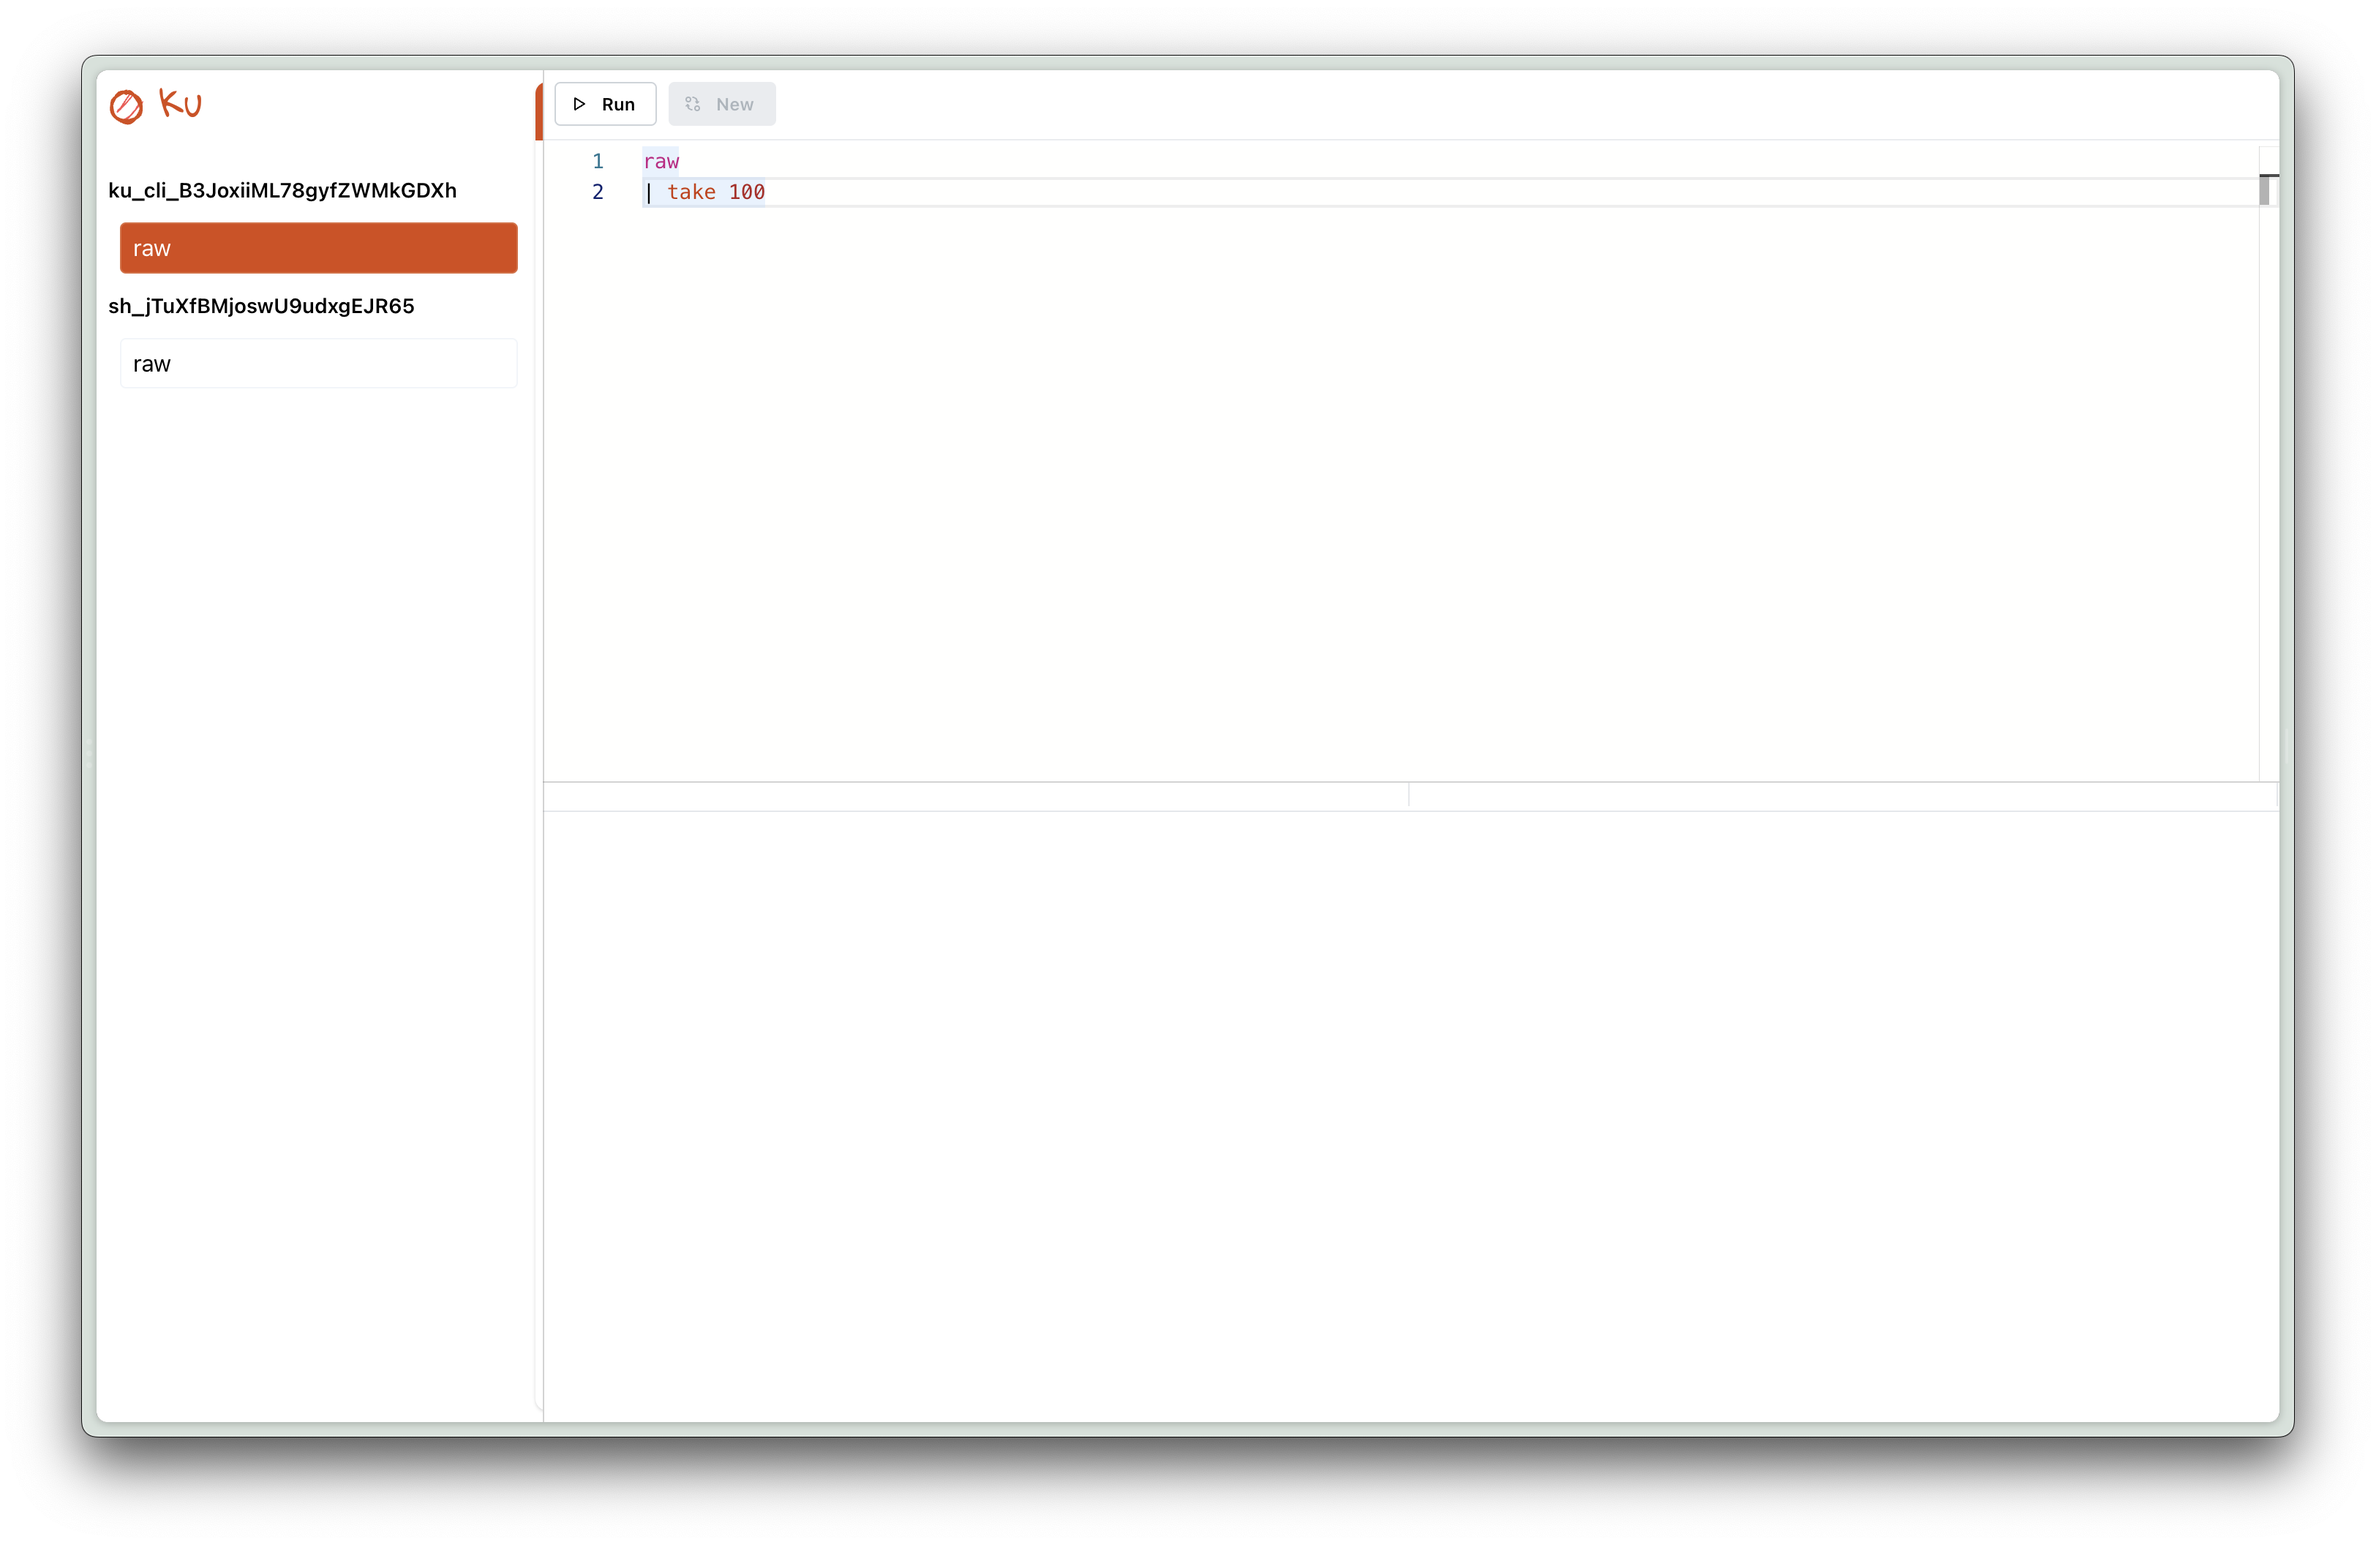
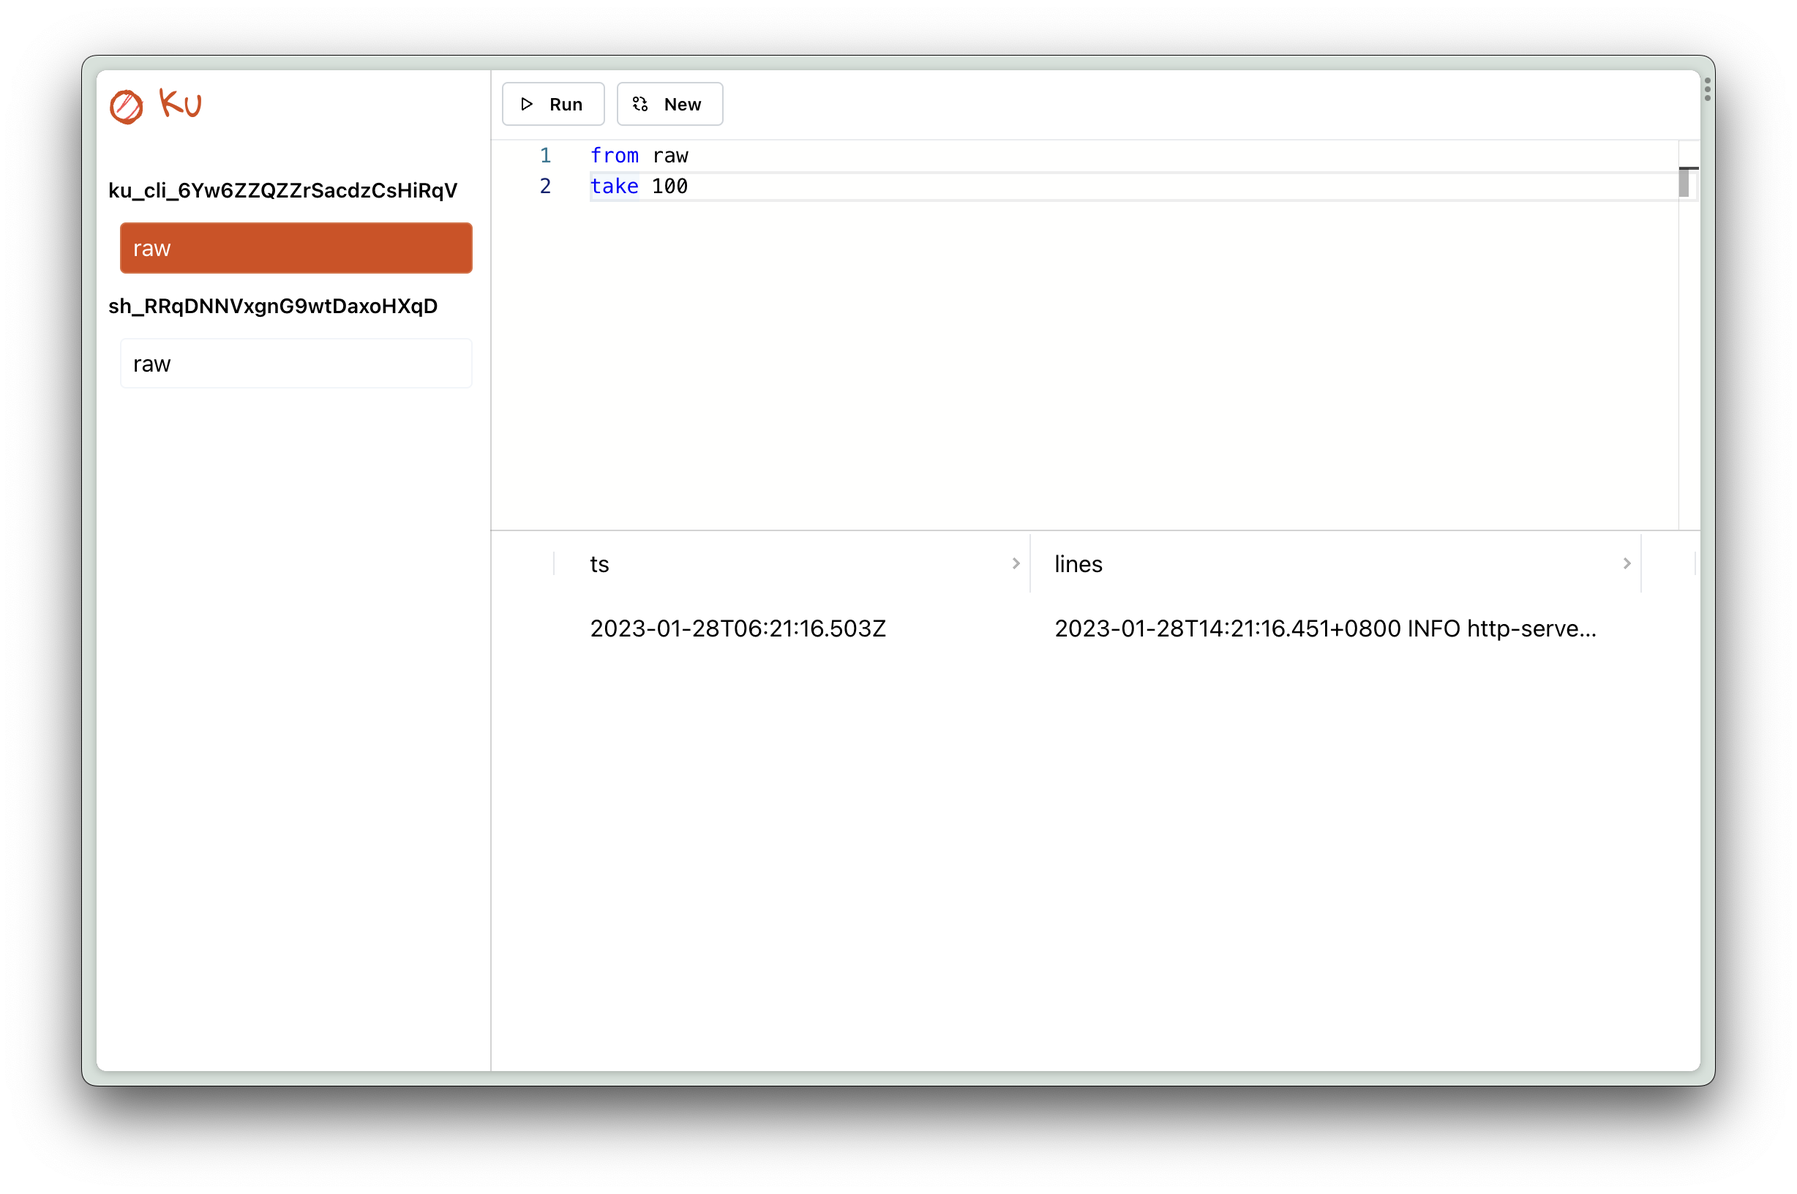
doc: update getting started images

Changed region(s): [[0.0, 0.0312, 0.9902, 0.9688], [0.5879, 0.4688, 0.8664, 0.5312], [0.3404, 0.5, 0.4951, 0.5312]]

diff --git a/docs/getting_started.md b/docs/getting_started.md
@@ -13,7 +13,7 @@ Currently only manual installation is supported. Download a release based on you
 The simplest way to run Ku is to put it in the beginning of your command:
 
 ```
-$ ku sh -c 'echo hello, world'
+$ ku --ku-db-path=./db.sqlite sh -c 'echo hello, world'
 hello, world
 ```
 
@@ -29,8 +29,8 @@ By default, Ku blocks until we stop the process. To stop previous run, press `Ct
 To revisit the logs without running the sub-command again, we can run Ku in readonly mode:
 
 ```
-$ ku --ku-readonly
-2022-09-11T14:19:15.877+0800	INFO	http-server	svc/grpcweb.go:73	server started	{"http.addr": ":4000"}
+$ ku --ku-db-path=./db.sqlite --ku-readonly
+2023-01-28T14:21:16.451+0800	INFO	http-server	svc/grpcweb.go:73	server started	{"http.addr": "127.0.0.1:4000"}
 ```
 
 Under this mode, ku reads the previous saved logs and starts the web server. Now we can open the browser and navigate to `http://localhost:4000` again. We should see the same result as the previous run.
